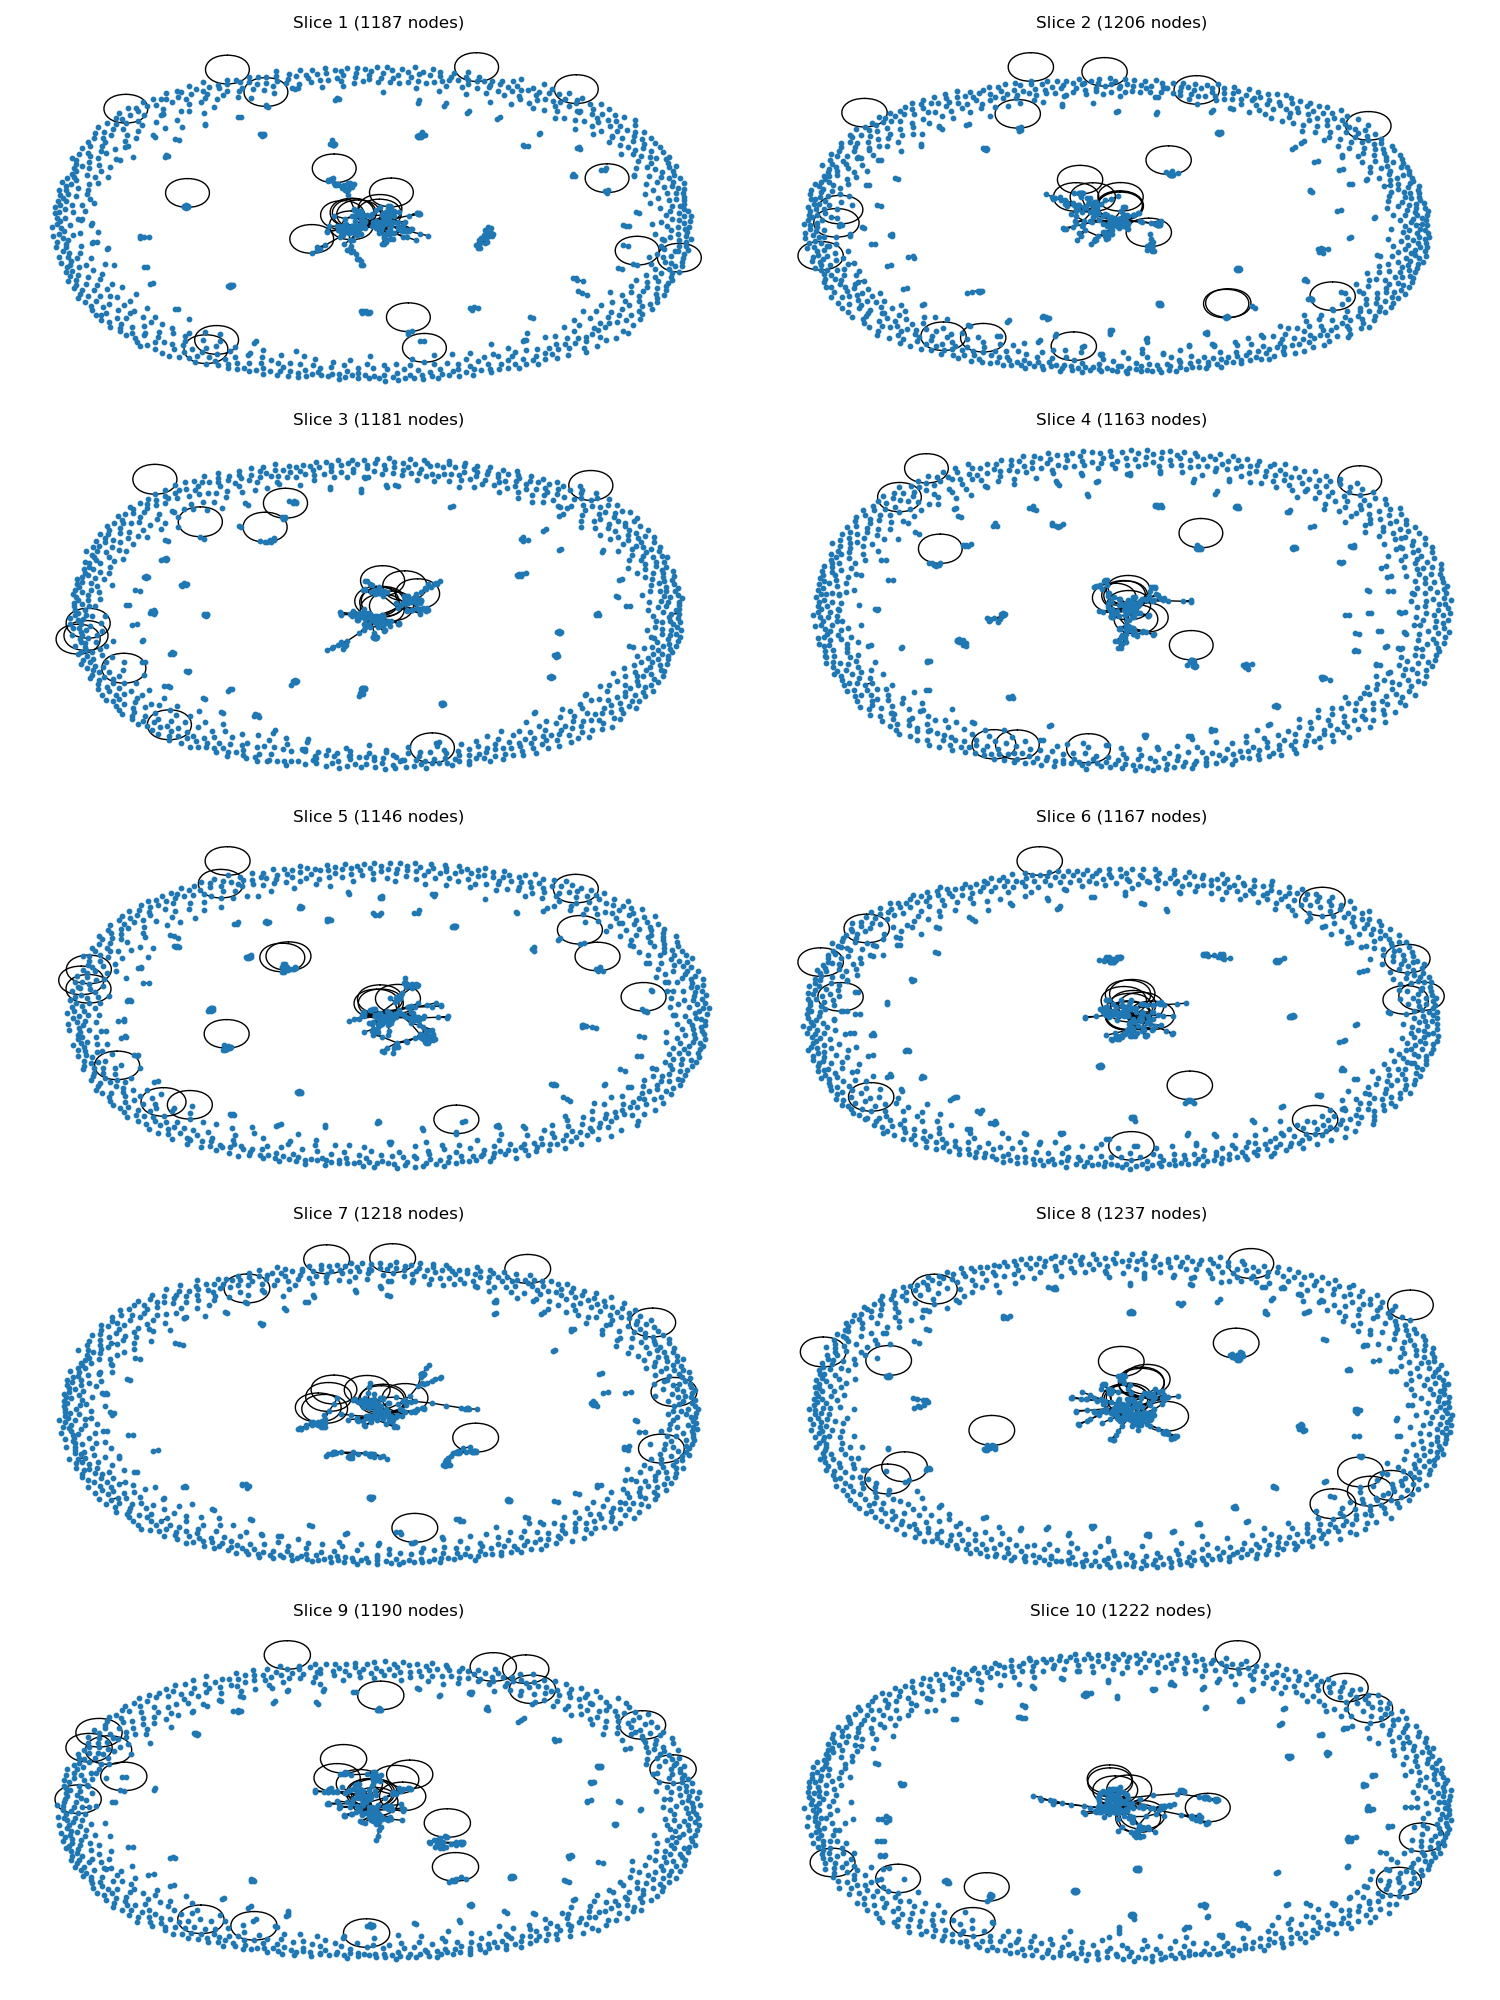
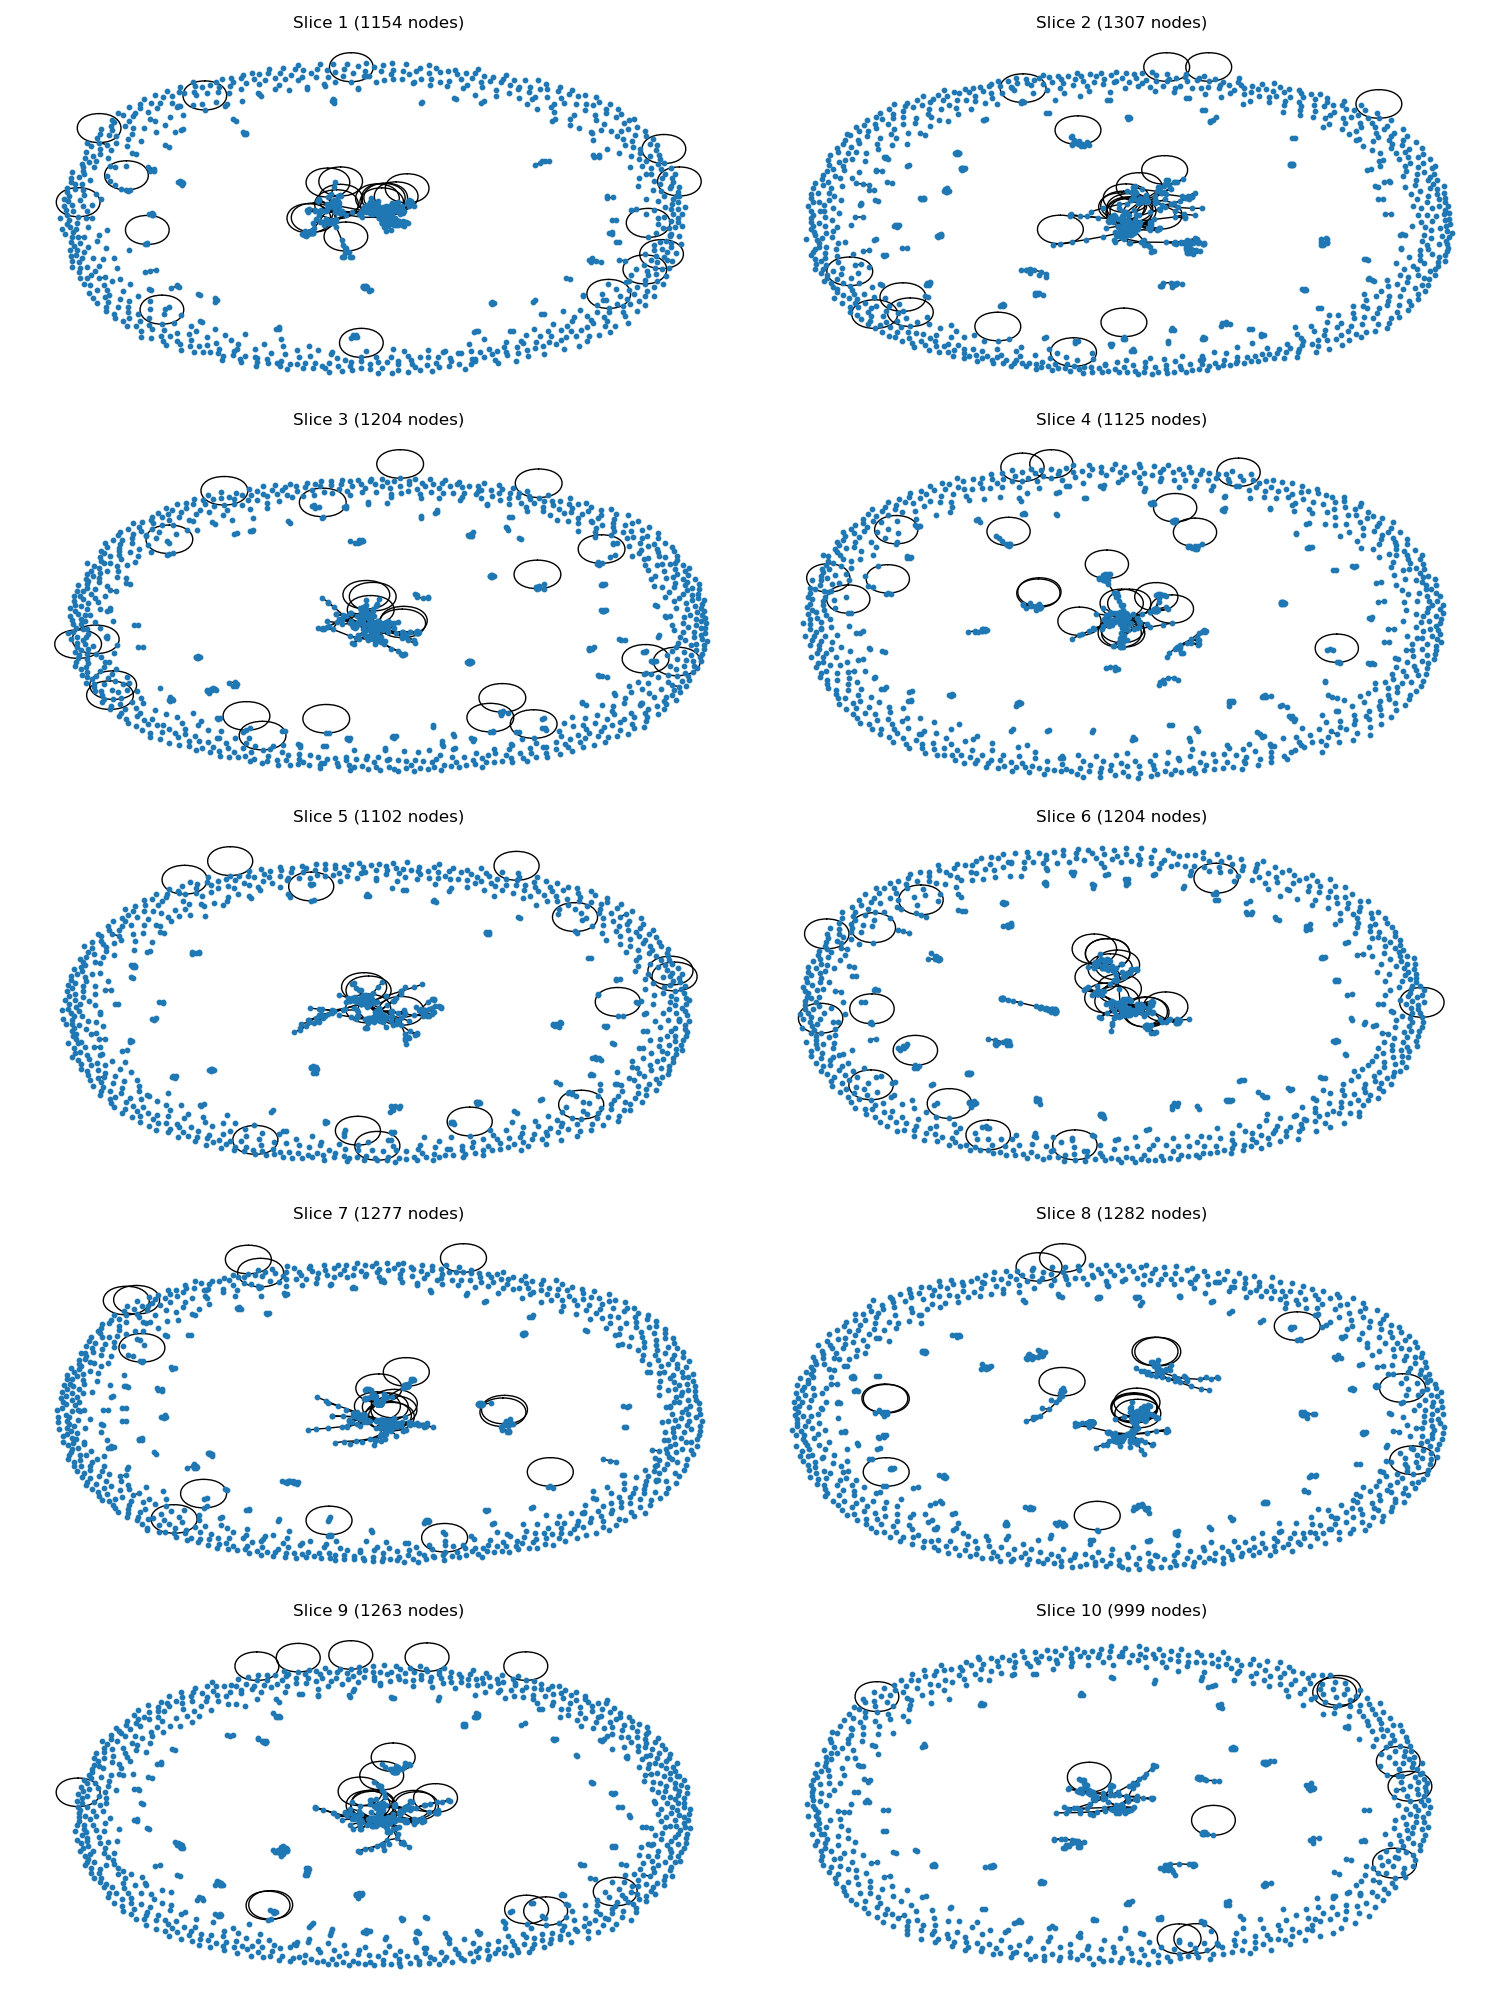
fixed Task 6, slicing by time

diff --git a/project.py b/project.py
@@ -214,7 +214,26 @@ print("Task 4: Saved cumulative degree centrality distribution to cumulative_deg
 
 # Task 6: Time slicing the network
 # Create 10 time slices
-time_slices = np.array_split(data, 10)
+data["Timestamp"] = pd.to_datetime(data["Timestamp"], errors='coerce')
+
+# Drop invalid
+data = data.dropna(subset=["Timestamp"])
+
+# Sort data chronologically
+data = data.sort_values(by="Timestamp")
+
+# Start and end times
+start_time = data["Timestamp"].min()
+end_time = data["Timestamp"].max()
+
+# Create 10 time bins
+time_bins = pd.date_range(start=start_time, end=end_time, periods=11)
+
+# Slice data by time ranges
+time_slices = []
+for i in range(10):
+    slice_df = data[(data["Timestamp"] >= time_bins[i]) & (data["Timestamp"] < time_bins[i+1])]
+    time_slices.append(slice_df)
 
 # List for metrics 
 subgraph_metrics = []
